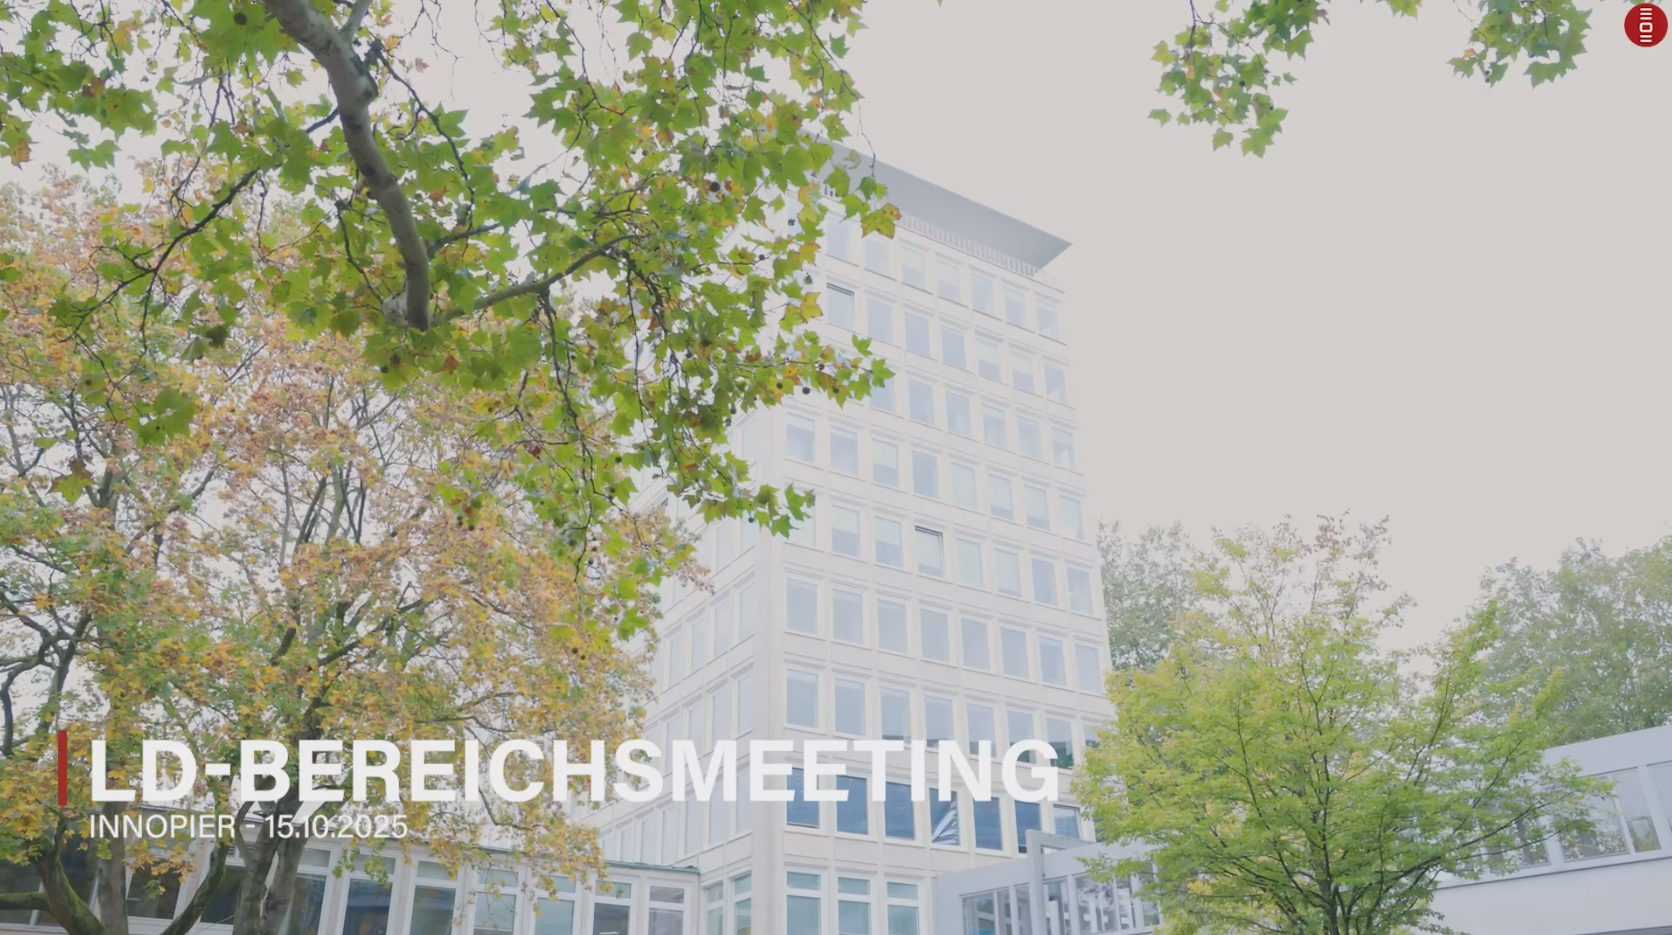
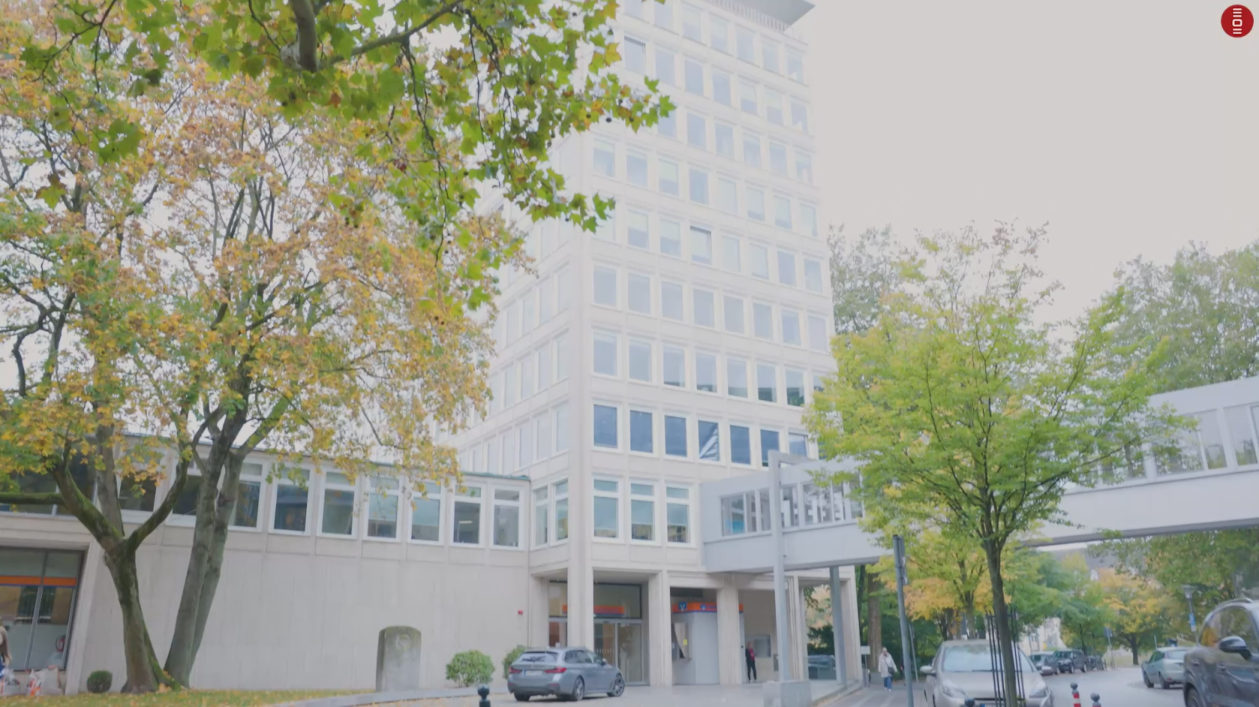
Fix project years, thesis title, and Bereichsmeeting thumbnail
Correct years (First Up trailers 2026, Spur des Falken 2023, Hausmesse &
Blindenstock 2025, VR 2024/2025, thesis 2025/2026), set the full thesis
title 'Set-Design in Dune (2021) und Dune: Part Two (2024)', and swap the
Bereichsmeeting Recap thumbnail for recap.png.

diff --git a/src/data/projects.ts b/src/data/projects.ts
@@ -118,7 +118,7 @@ export const PROJECTS: Project[] = [
     slug: 'nachdreh-spur-des-falken',
     title: 'Nachdreh: "Die Spur des Falken" (1941)',
     category: 'film',
-    year: '2025', // TODO: Jahr aus Drive prüfen (war im Dateinamen abgeschnitten)
+    year: '2023',
     role: { de: 'Studienprojekt · Kamera · Regie · Postproduktion', en: 'Student project · Camera · Directing · Post' },
     description: {
       de: 'Studentische Übung / Hommage (nicht-kommerziell): Nachdreh einer Szene aus „Die Spur des Falken" (1941).',
@@ -215,7 +215,7 @@ export const PROJECTS: Project[] = [
     slug: 'dataport-hausmesse-recap',
     title: 'Dataport — Hausmesse Recap',
     category: 'interviews',
-    year: '2024',
+    year: '2025',
     role: { de: 'Kamera · Postproduktion', en: 'Camera · Post' },
     description: {
       de: 'Recap der Dataport-Hausmesse.',
@@ -230,7 +230,7 @@ export const PROJECTS: Project[] = [
     slug: 'verlobung-trailer-ilayda-emin',
     title: 'First Up Weddings — Ilayda & Emin Can',
     category: 'visuelle',
-    year: '2025',
+    year: '2026',
     featured: true,
     role: { de: 'Verlobungstrailer · Kamera · Schnitt · Farblook', en: 'Engagement Trailer · Camera · Edit · Color' },
     description: {
@@ -244,7 +244,7 @@ export const PROJECTS: Project[] = [
     slug: 'mustafa-yaren-verlobungstrailer',
     title: 'First Up Weddings — Mustafa & Yaren',
     category: 'visuelle',
-    year: '2025', // TODO: Jahr prüfen
+    year: '2026',
     role: { de: 'Verlobungstrailer · Kamera · Schnitt · Farblook', en: 'Engagement Trailer · Camera · Edit · Color' },
     description: {
       de: 'Cinematischer Verlobungs-Trailer für First Up Weddings.',
@@ -303,7 +303,7 @@ export const PROJECTS: Project[] = [
     slug: 'smart-blindenstock',
     title: 'Smarter Blindenstock (3D-Druck)',
     category: 'weiteres',
-    year: '2024',
+    year: '2025',
     role: { de: '3D-Druck · Programmierung · Sensorik', en: '3D Printing · Programming · Sensors' },
     description: {
       de: 'Studienprojekt: ein 3D-gedruckter, smart programmierter Blindenstock mit Sensorik zur Hinderniserkennung und Feedback. Die Slideshow zeigt Prozess und fertiges Projekt — das ausführliche Paper zu Code & Aufbau sende ich gerne auf Anfrage.',
@@ -330,7 +330,7 @@ export const PROJECTS: Project[] = [
     slug: 'vr-spielprojekt',
     title: 'VR-Spielprojekt — OdysseyThroughTime',
     category: 'weiteres',
-    year: '2023',
+    year: '2024/2025',
     role: { de: 'Game Design · VR · 3D', en: 'Game Design · VR · 3D' },
     description: {
       de: 'Interaktives VR-Spielprojekt „OdysseyThroughTime" aus dem Studium — Konzeption, 3D-Umgebung und Interaktionsdesign. Den Projektordner kannst du herunterladen; ein Gameplay-Video folgt.',
@@ -344,9 +344,9 @@ export const PROJECTS: Project[] = [
   },
   {
     slug: 'bachelorthesis-dune',
-    title: 'Bachelorthesis — Set-Design in Dune',
+    title: 'Bachelorthesis — Set-Design in Dune (2021) und Dune: Part Two (2024)',
     category: 'weiteres',
-    year: '2026',
+    year: '2025/2026',
     role: { de: 'Forschung · Analyse', en: 'Research · Analysis' },
     description: {
       de: 'B.Eng.-Thesis: Architektonisches Set-Design in Dune (2021) und Dune: Part Two (2024).',